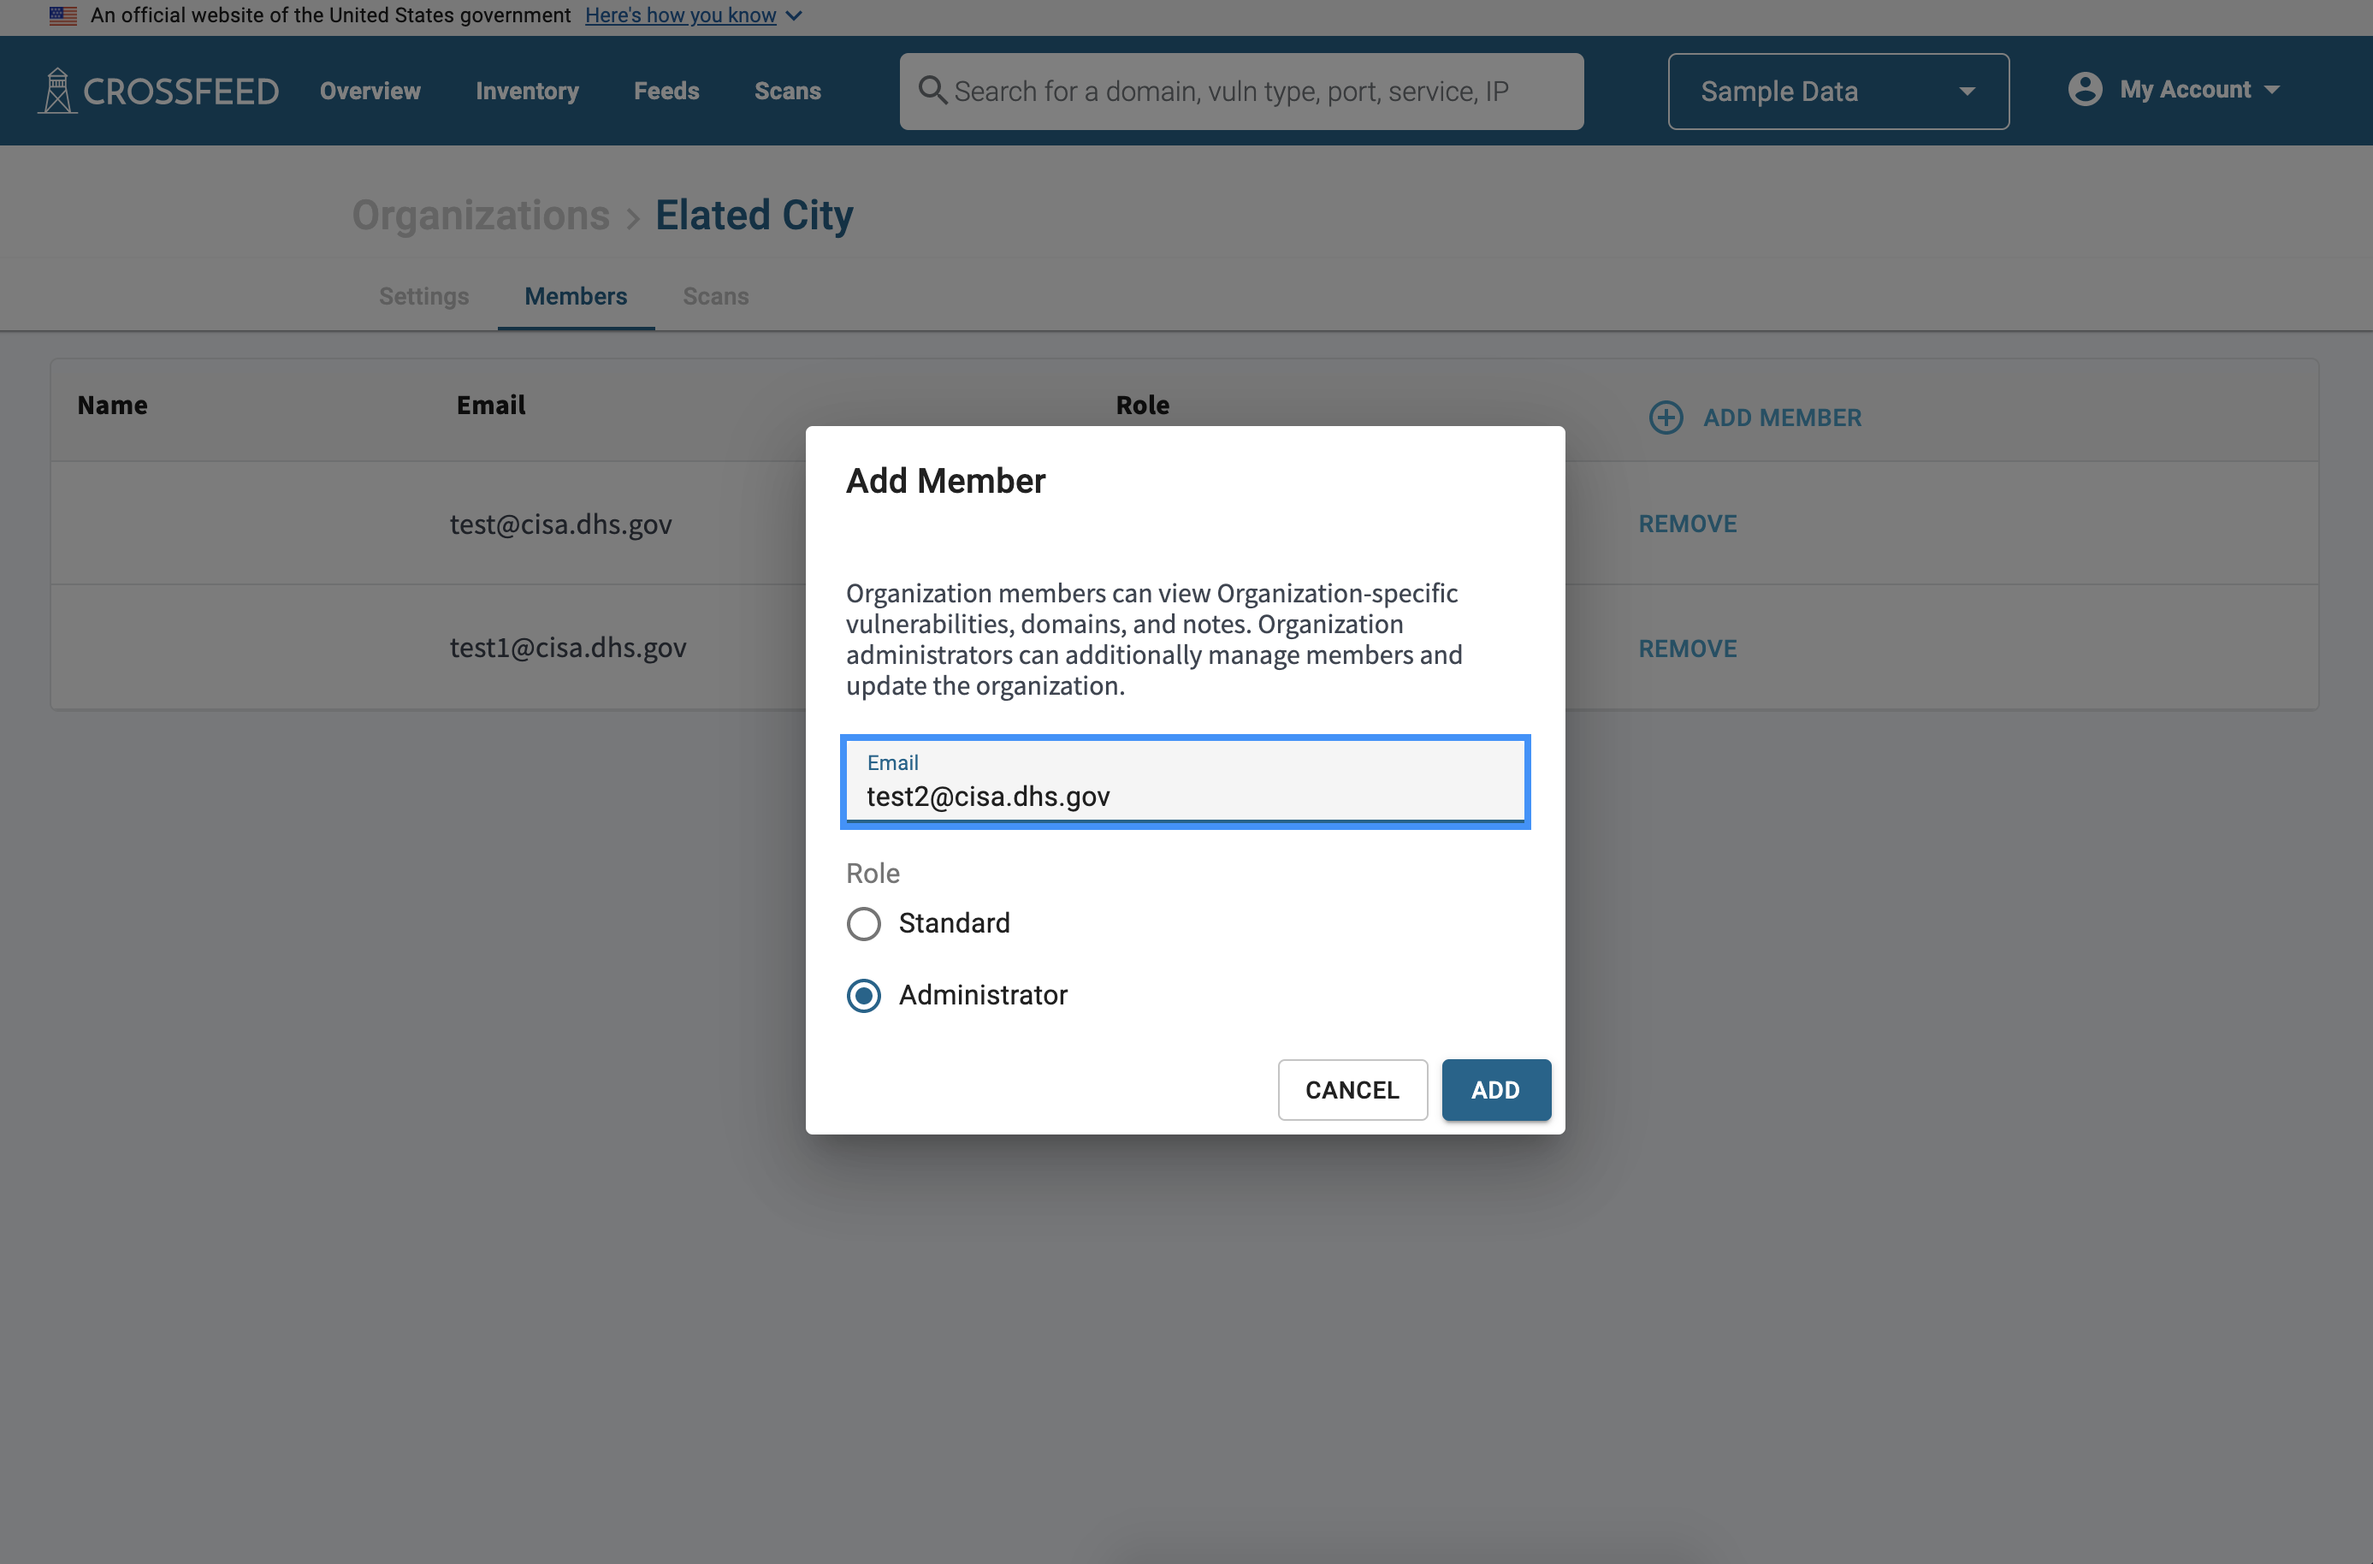
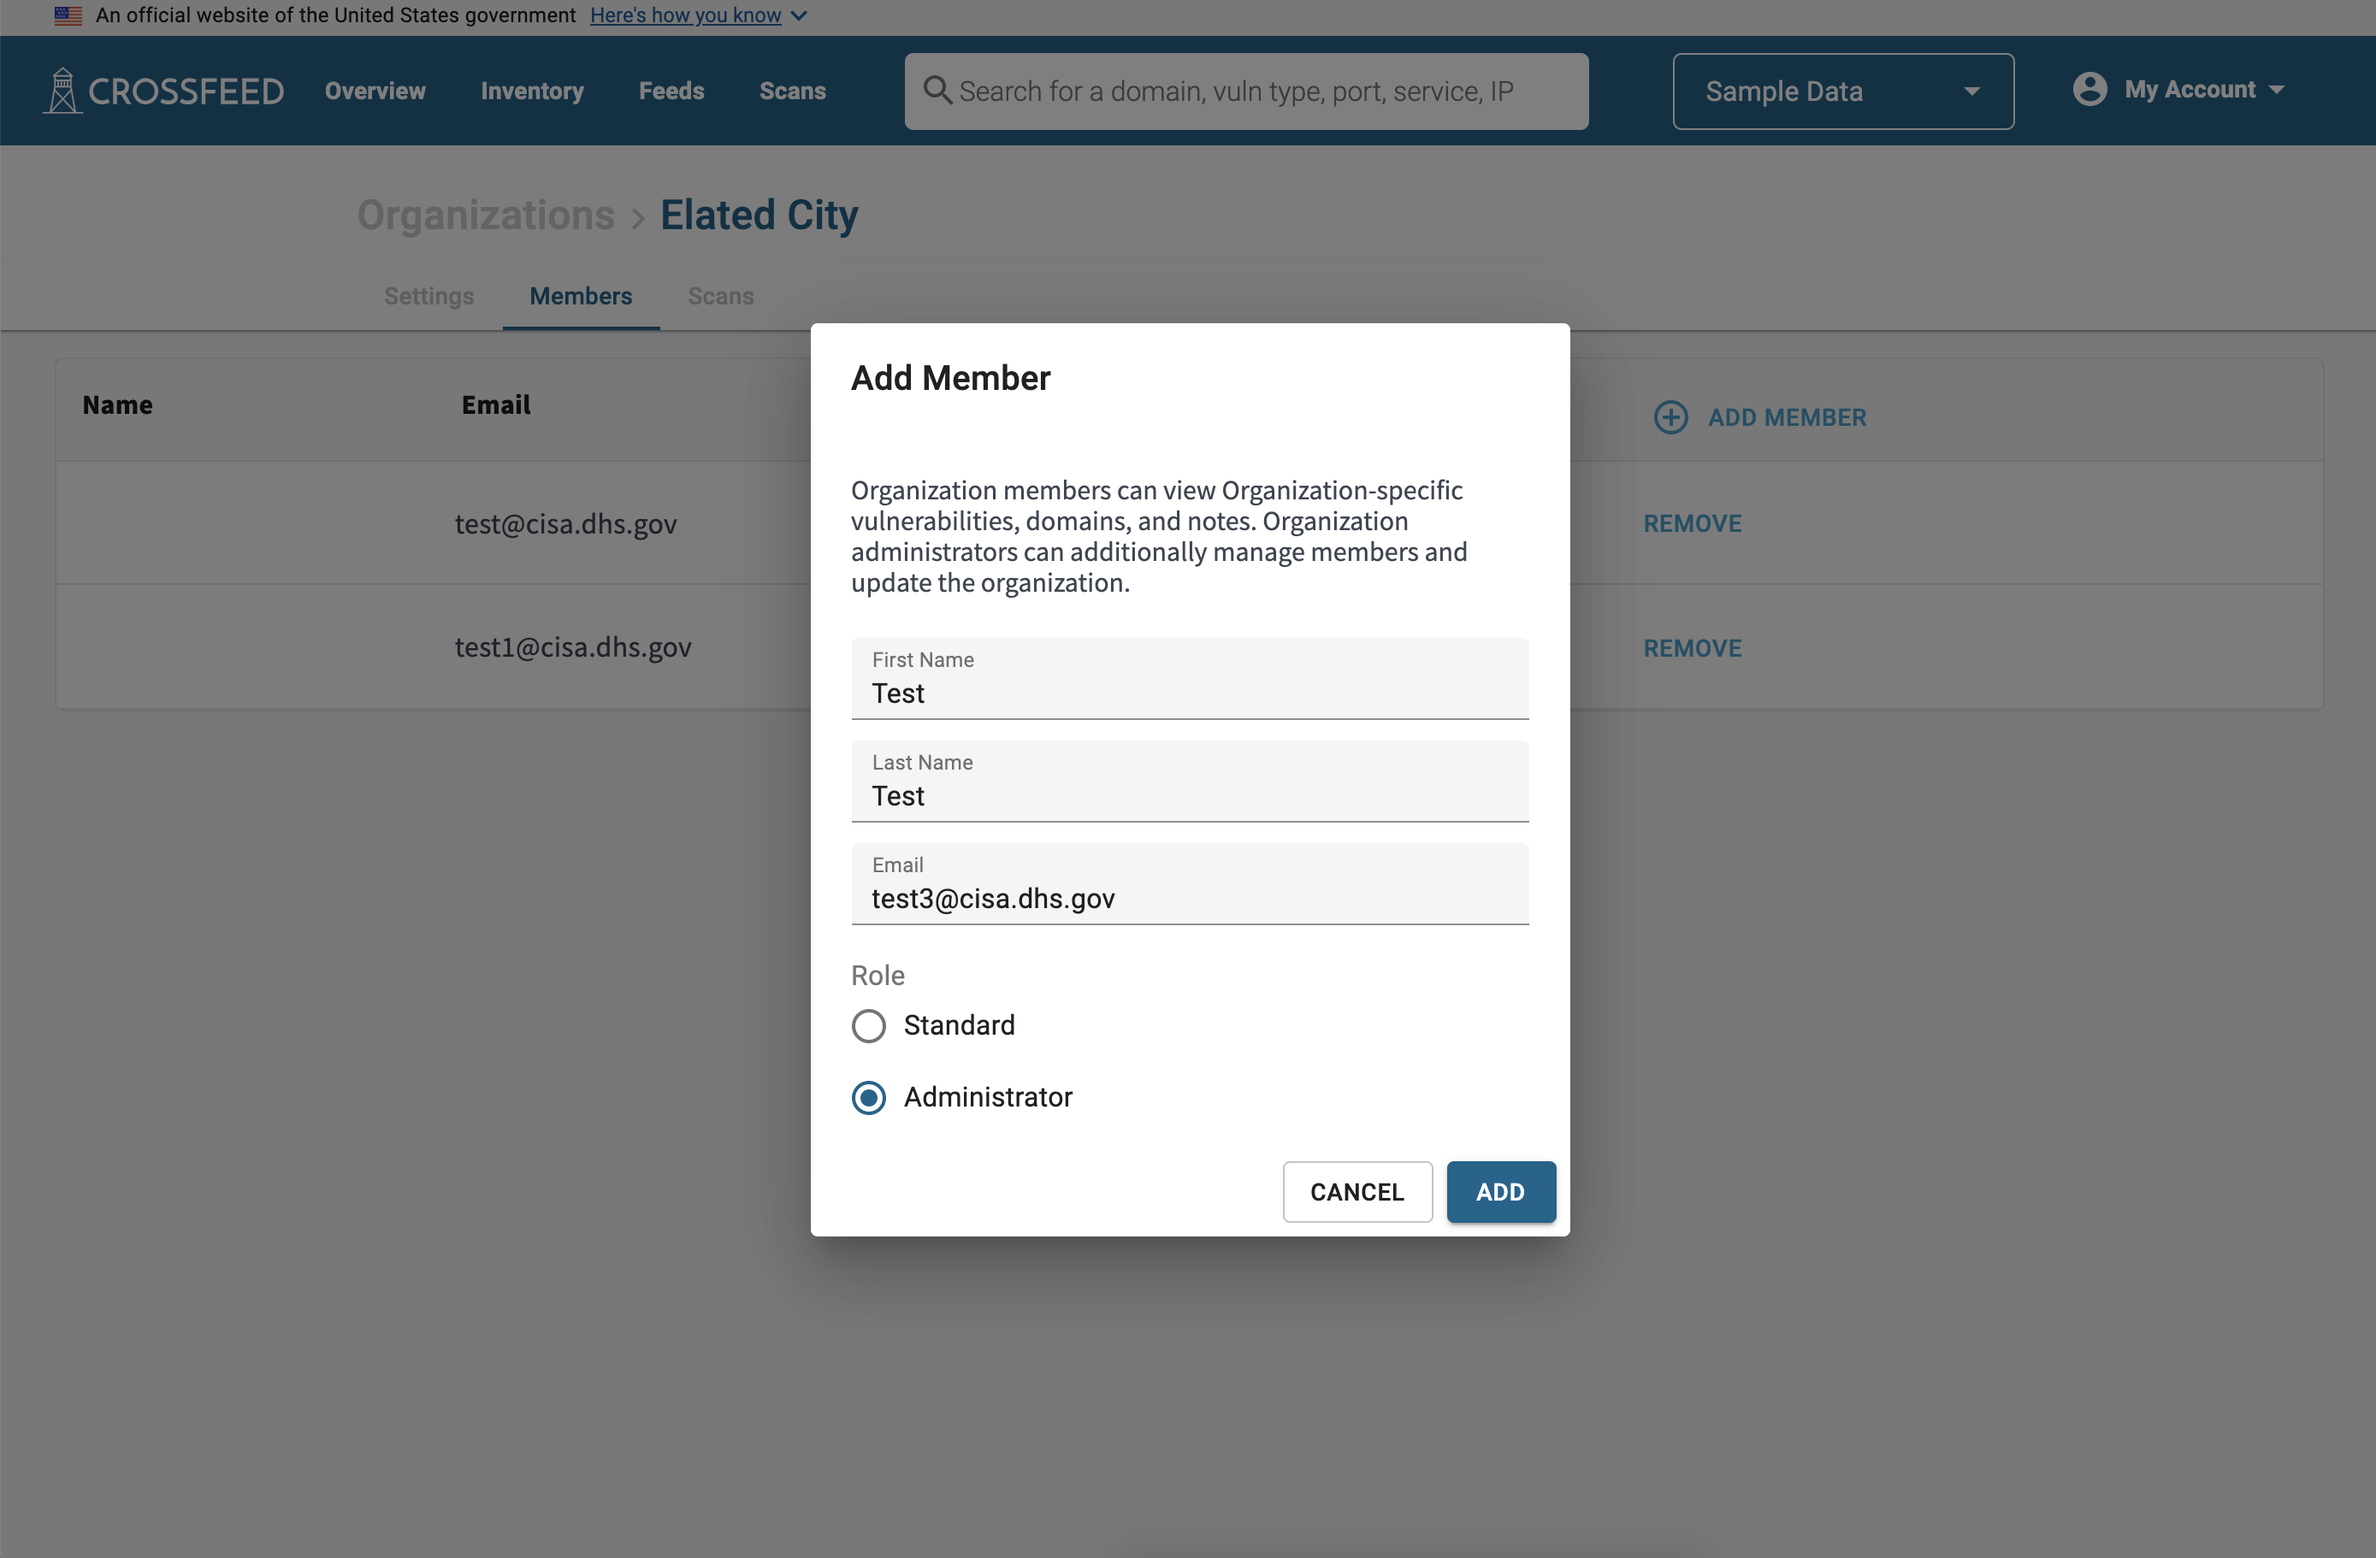
Add first name and last name fields to org invite screen

diff --git a/frontend/src/pages/Organization/Organization.tsx b/frontend/src/pages/Organization/Organization.tsx
@@ -636,6 +636,34 @@ export const Organization: React.FC = () => {
           </p>
           <TextField
             margin="dense"
+            id="firstName"
+            name="firstName"
+            label="First Name"
+            type="text"
+            fullWidth
+            value={newUserValues.firstName}
+            onChange={onInviteUserTextChange}
+            variant="filled"
+            InputProps={{
+              className: classes.textField
+            }}
+          />
+          <TextField
+            margin="dense"
+            id="lastName"
+            name="lastName"
+            label="Last Name"
+            type="text"
+            fullWidth
+            value={newUserValues.lastName}
+            onChange={onInviteUserTextChange}
+            variant="filled"
+            InputProps={{
+              className: classes.textField
+            }}
+          />
+          <TextField
+            margin="dense"
             id="email"
             name="email"
             label="Email"
